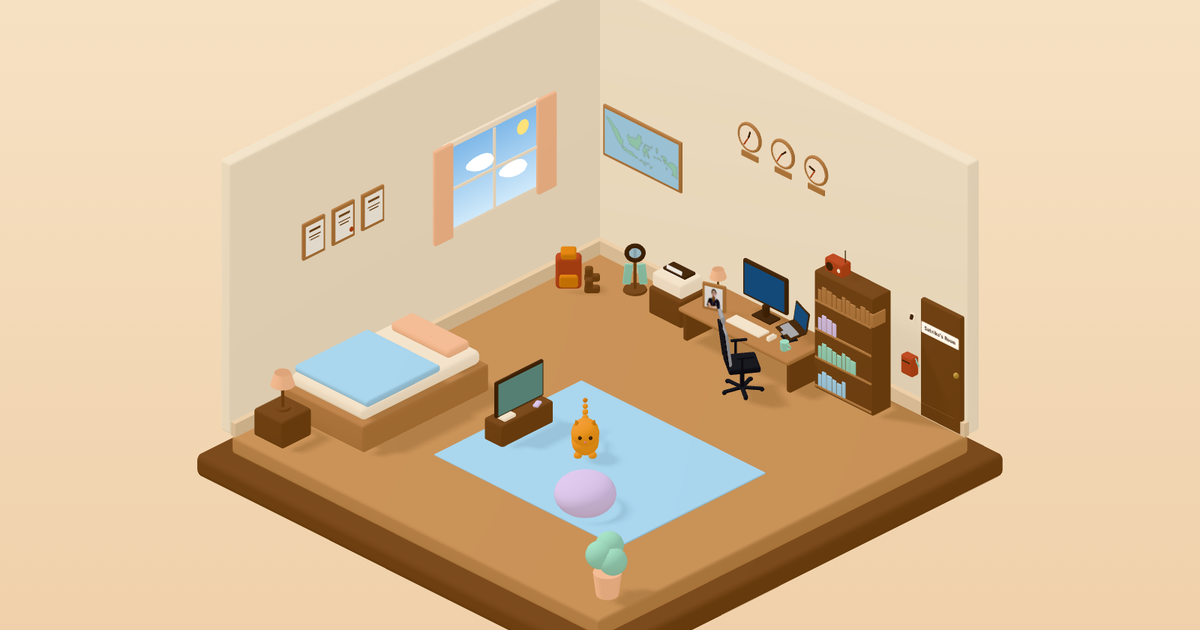
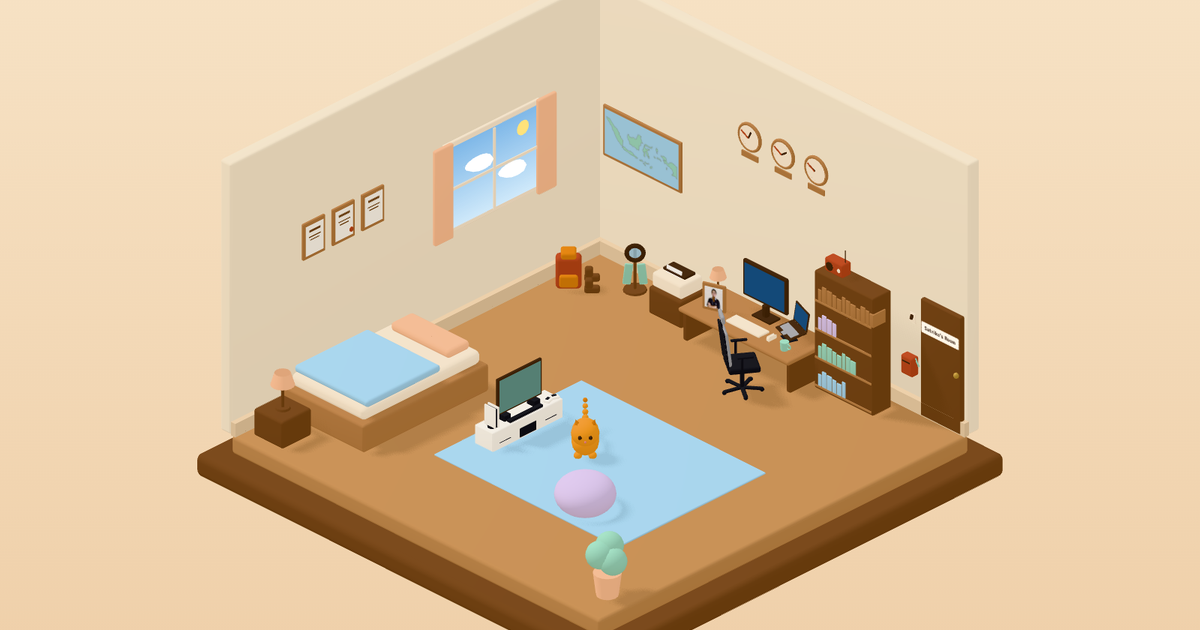
feat: model the TV setup on the real one with a PS5 and controllers

Changed region(s): [[0.37, 0.573, 0.4933, 0.7238]]

diff --git a/src/components/three/objects/Tv/index.tsx b/src/components/three/objects/Tv/index.tsx
@@ -9,40 +9,120 @@ import { roomLayout } from '@constants/roomLayout'
 import { palette } from '@constants/roomPalette'
 import { openFromScene } from '@utils/history'
 
+// The cabinet is wider than the TV, so the console and controllers sit beside
+// the screen, not in front of it.
+const CABINET = { width: 1.9, height: 0.45, depth: 0.5 } as const
+const TV = { width: 1.2, height: 0.8, y: 1.0 } as const
+
+/** A white PS5 standing on its side: a dark core between two white plates. */
+function Console() {
+  return (
+    <group position={[-0.78, CABINET.height, 0.05]}>
+      <mesh position={[0, 0.015, 0]}>
+        <cylinderGeometry args={[0.09, 0.09, 0.03, 20]} />
+        <meshStandardMaterial {...clay(palette.chairFrame)} />
+      </mesh>
+      <RoundedBox
+        args={[0.06, 0.4, 0.26]}
+        radius={0.01}
+        position={[0, 0.23, 0]}
+      >
+        <meshStandardMaterial {...clay(palette.chairFrame)} />
+      </RoundedBox>
+      {[-0.045, 0.045].map((x) => (
+        <RoundedBox
+          key={x}
+          args={[0.03, 0.44, 0.3]}
+          radius={0.012}
+          position={[x, 0.25, 0]}
+          castShadow
+        >
+          <meshStandardMaterial {...clay(palette.paper)} />
+        </RoundedBox>
+      ))}
+    </group>
+  )
+}
+
+/** A white controller with a dark touchpad, lying on the cabinet. */
+function Controller({ x, yaw }: { x: number; yaw: number }) {
+  return (
+    <group position={[x, CABINET.height, 0.12]} rotation={[0, yaw, 0]}>
+      <RoundedBox
+        args={[0.2, 0.05, 0.14]}
+        radius={0.025}
+        position={[0, 0.025, 0]}
+      >
+        <meshStandardMaterial {...clay(palette.paper)} />
+      </RoundedBox>
+      <RoundedBox
+        args={[0.1, 0.012, 0.06]}
+        radius={0.005}
+        position={[0, 0.053, -0.015]}
+      >
+        <meshStandardMaterial {...clay(palette.chairFrame)} />
+      </RoundedBox>
+    </group>
+  )
+}
+
 export default function Tv() {
   const p = roomLayout.tv
+  const white = clay(palette.paper)
+  const dark = clay(palette.chairFrame)
   return (
     <group position={[...p.position]} rotation={[0, p.rotationY ?? 0, 0]}>
       <Interactive
         id="tv"
         label="Gaming"
-        hitSize={[1.6, 1.5, 0.8]}
-        hitOffset={[0, 0.7, 0.1]}
-        labelHeight={1.6}
+        hitSize={[2.1, 1.6, 0.8]}
+        hitOffset={[0, 0.75, 0.1]}
+        labelHeight={1.65}
         onActivate={() => openFromScene('gaming')}
       >
+        {/* White low cabinet: two drawer fronts and an open middle shelf. */}
         <RoundedBox
-          args={[1.4, 0.5, 0.5]}
-          radius={0.05}
-          position={[0, 0.25, 0]}
+          args={[CABINET.width, CABINET.height, CABINET.depth]}
+          radius={0.03}
+          position={[0, CABINET.height / 2, 0]}
           castShadow
         >
-          <meshStandardMaterial {...clay(palette.woodDark)} />
+          <meshStandardMaterial {...white} />
         </RoundedBox>
         <RoundedBox
-          args={[1.3, 0.8, 0.08]}
-          radius={0.04}
-          position={[0, 0.95, 0]}
+          args={[0.44, 0.2, 0.42]}
+          radius={0.01}
+          position={[0, 0.16, 0.05]}
+        >
+          <meshStandardMaterial {...dark} />
+        </RoundedBox>
+        {[-0.62, 0.62].map((x) => (
+          <mesh key={x} position={[x, 0.17, CABINET.depth / 2 + 0.004]}>
+            <boxGeometry args={[0.3, 0.012, 0.008]} />
+            <meshStandardMaterial {...dark} />
+          </mesh>
+        ))}
+        {/* Slim TV on two feet, with a soundbar under it. */}
+        {[-0.4, 0.4].map((x) => (
+          <mesh key={x} position={[x, CABINET.height + 0.06, 0]}>
+            <boxGeometry args={[0.16, 0.12, 0.2]} />
+            <meshStandardMaterial {...dark} />
+          </mesh>
+        ))}
+        <RoundedBox
+          args={[TV.width, TV.height, 0.06]}
+          radius={0.02}
+          position={[0, TV.y, 0]}
           castShadow
         >
           <meshStandardMaterial {...clay(palette.ink)} />
         </RoundedBox>
         <mesh
           name="tvScreen"
-          position={[0, 0.95, 0.045]}
+          position={[0, TV.y, 0.035]}
           userData={{ noHighlight: true }}
         >
-          <planeGeometry args={[1.2, 0.7]} />
+          <planeGeometry args={[TV.width - 0.08, TV.height - 0.08]} />
           <meshStandardMaterial
             color={palette.screen}
             emissive={palette.mint}
@@ -51,20 +131,15 @@ export default function Tv() {
           />
         </mesh>
         <RoundedBox
-          args={[0.32, 0.08, 0.26]}
-          radius={0.03}
-          position={[-0.4, 0.54, 0.05]}
+          args={[0.9, 0.06, 0.1]}
+          radius={0.02}
+          position={[0, CABINET.height + 0.03, 0.17]}
         >
-          <meshStandardMaterial {...clay(palette.cream)} />
+          <meshStandardMaterial {...dark} />
         </RoundedBox>
-        <RoundedBox
-          args={[0.22, 0.06, 0.12]}
-          radius={0.03}
-          position={[0.35, 0.53, 0.15]}
-          rotation={[0, 0.4, 0]}
-        >
-          <meshStandardMaterial {...clay(palette.lavender)} />
-        </RoundedBox>
+        <Console />
+        <Controller x={0.68} yaw={0.25} />
+        <Controller x={0.84} yaw={-0.35} />
       </Interactive>
     </group>
   )

diff --git a/src/components/three/Oyen/wander.test.ts b/src/components/three/Oyen/wander.test.ts
@@ -57,7 +57,7 @@ const boxes: Record<string, Box> = {
   desk: footprint('desk'),
   sideTable: footprint('sideTable'),
   bookshelf: footprint('bookshelf'),
-  tv: [-1.45, -0.95, 0.3, 1.7],
+  tv: [-1.45, -0.95, 0.05, 1.95],
 }
 const atFloor = (id: keyof typeof roomLayout, radius: number) =>
   [roomLayout[id].position[0], roomLayout[id].position[2], radius] as const
@@ -136,7 +136,7 @@ describe('Oyen paths', () => {
     const [u, d] = view(oyenSpots[id])
     // Furniture tall enough to hide a cat, with its height (measured from the objects).
     const occluders: [Box, number][] = [
-      [boxes.tv, 1.35],
+      [boxes.tv, 1.4],
       [boxes.bed, 1.08],
       [boxes.desk, 1.45],
       [boxes.bookshelf, 2.6],

diff --git a/src/constants/sections.ts b/src/constants/sections.ts
@@ -97,9 +97,9 @@ export const sections: readonly Section[] = [
     objectId: 'tv',
     theme: 'tv',
     cameraPose: {
-      target: [-1.2, 0.9, 1.0],
+      target: [-1.2, 1.0, 1.0],
       offset: [3.6, 2.2, 3.0],
-      zoomFactor: 2.2,
+      zoomFactor: 2.0,
     },
     seo: {
       title: by('Gaming'),

diff --git a/src/constants/oyen.ts b/src/constants/oyen.ts
@@ -72,7 +72,6 @@ export const oyenPaths: readonly (readonly [OyenSpotId, OyenSpotId])[] = [
   ['home', 'tvView'],
   ['home', 'rugCorner'],
   ['home', 'middleBack'],
-  ['home', 'window'],
   ['rugFront', 'tvView'],
   ['rugFront', 'rugCorner'],
   ['rugFront', 'middleBack'],

diff --git a/docs/design/08-decision-log.md b/docs/design/08-decision-log.md
@@ -51,6 +51,7 @@ Every decision made during the brainstorming session on **2026-10-21**, in the o
 | 40 | Outdoor-hobby corner | Keep the dive gear (under the window), hiking gear (by the door) and map (above the bookshelf) apart vs. group them | **Grouped in the empty back corner:** backpack and boots by the left wall, dive stand against the back wall, the map on the back wall above them with its bottom edge level with the window's. The wall above the bookshelf stays empty for now | They are all outdoor hobbies. The map goes on the back wall because the left wall has only 1.35 units between the curtain and the corner. The backpack takes the left-wall side so its boots stay in view, and the Diving tag sits higher than the Hiking tag so the two don't overlap on phones | Satriko |
 | 41 | Office chair | No chair vs. a chair like Satriko's real one (grey mesh back and headrest, black seat, arms and five-star base) vs. a palette-matched chair | **Modelled on the real chair,** in its own cool greys (`chairMesh`, `chairFrame`), pulled out from the desk and turned toward the room, built at real proportions and scaled ×1.25 to match the room's chunky furniture | The desk is Satriko's real setup; the greys make the chair read as theirs. Pulled out and turned keeps the keyboard, mouse and mug visible from the camera; pushed in, the chair back would cover them | Satriko |
 | 42 | Laptop on the desk | Decor vs. its own clickable object vs. part of the PC's group; flat vs. raised on a stand; lamp moved or removed | **Part of the PC's hover-and-click group** (one setup: monitor, keyboard, mouse, laptop); **raised on a slim stand**, open about 120°, turned a little toward the monitor, with a screen that glows like the PC's; the **desk lamp moves to the printer side** of the desk and the mug stays | Matches Satriko's real setup, where the laptop works beside the monitor. One group keeps a single way into Work experience | Satriko |
+| 43 | TV setup | Keep the generic TV and console vs. model Satriko's: white cabinet with drawers and an open shelf, soundbar, PS5 standing on the left, two controllers on the right | **Modelled on the real setup,** soundbar included, white cabinet with drawer fronts and an open shelf; the TV grows to the cabinet's width | Same reason as the chair and laptop: the room shows Satriko's real things. White and the chair's dark grey come from the existing palette (`paper`, `chairFrame`) | Satriko |
 
 ## Design sections reviewed and approved
 

diff --git a/docs/design/03-room-scene.md b/docs/design/03-room-scene.md
@@ -34,7 +34,7 @@ This is a starting layout. **Exact positions, rotations and scales are tuned dur
 | 2 | `pc` | PC: monitor, keyboard, mouse, and the laptop open on a stand to its right (one hover and click group, like Satriko's real desk) | On the desk | Opens `/experience` | Pack or code | Work experience |
 | 3 | `bookshelf` | Bookshelf with colored book spines | Right wall, next to the desk | Opens `/skills` | Pack (shelf) + code (books) | Skills |
 | 4 | `edu-frames` | 3 certificate frames | Left wall, above the bed | Opens `/education` | Code | Education |
-| 5 | `tv` | TV + game console on a low cabinet | Floor, on the rug | Opens `/gaming` | Pack or code | Gaming |
+| 5 | `tv` | TV setup like Satriko's: a wide TV on a white low cabinet (two drawers, open shelf), a soundbar, a white PS5 standing on the left and two controllers on the right | Floor, on the rug | Opens `/gaming` | Pack or code | Gaming |
 | 6 | `indonesia-map` | Illustrated Indonesia map with pins | Back (right) wall, in the outdoor-hobby corner above the hiking and dive gear; its bottom edge lines up with the window's | Opens `/travel` | Code (plane + illustrated texture) | Travel |
 | 7 | `hiking-gear` | Backpack + hiking boots | Outdoor-hobby corner, by the left wall | Opens `/hiking` | Code | Hiking |
 | 8 | `dive-gear` | Dive mask + fins on a stand | Outdoor-hobby corner, against the back wall | Opens `/diving` | Code | Diving |
